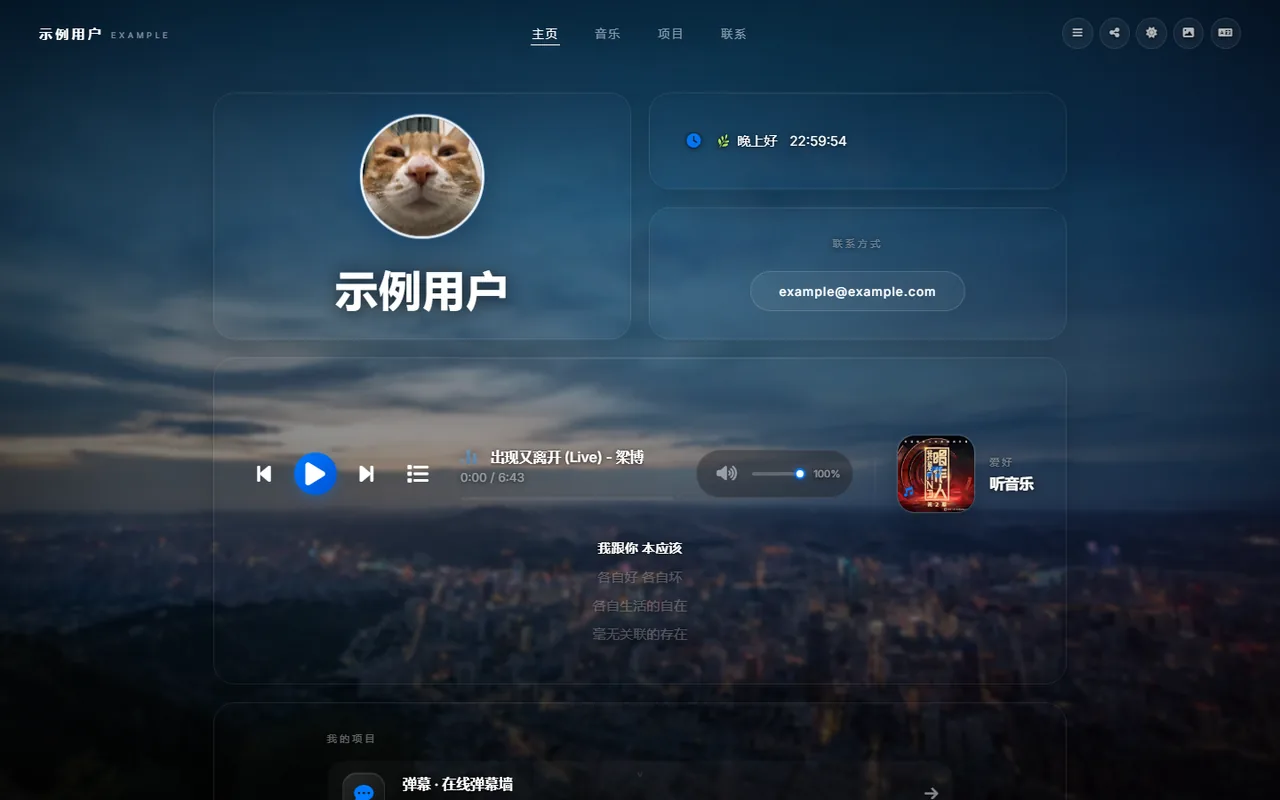
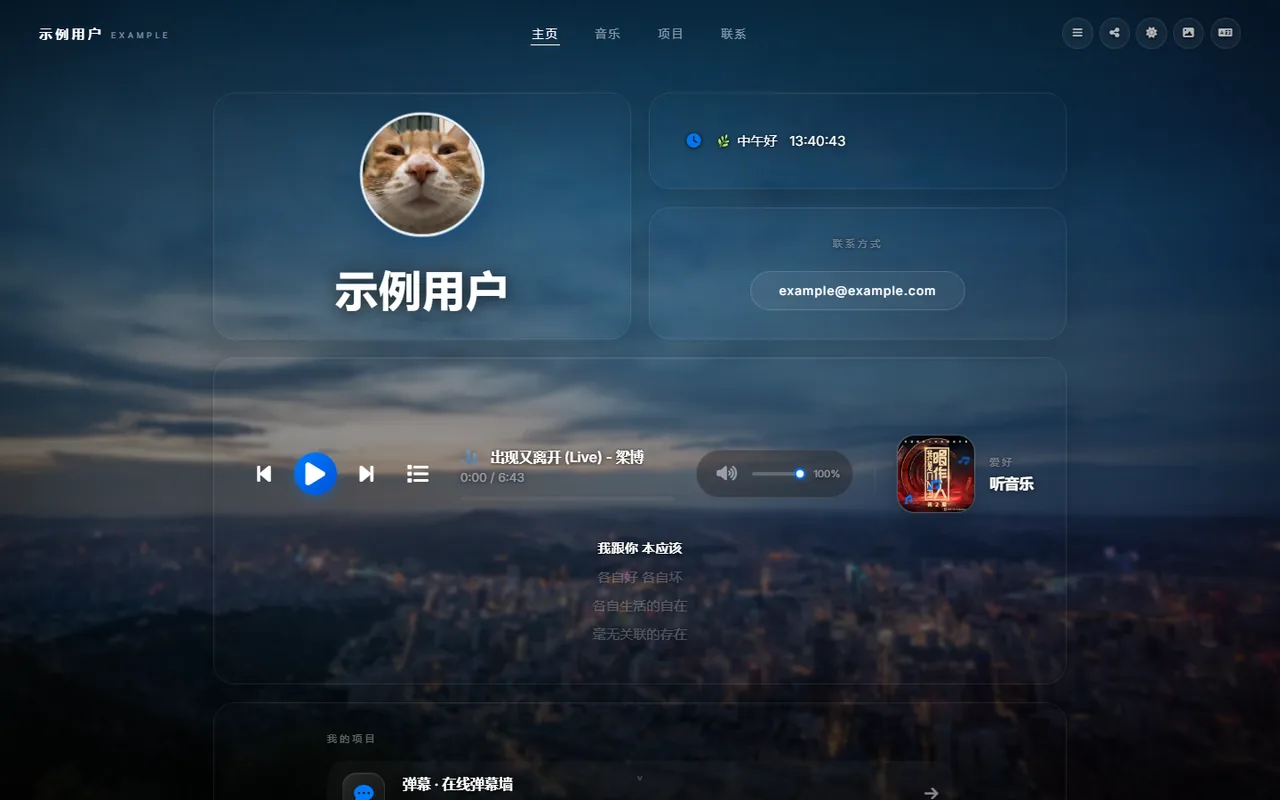
feat: 2026 动效升级 + 歌单更新
- 自定义光标（双元素、悬停放大，仅鼠标设备）
- 主题切换 View Transition 圆形揭示
- 卡片聚焦（悬停一张其余压暗）、名字失焦入场、壁纸视差
- 播放器：点歌即播并收起列表、去掉播放进度记忆
- 歌单替换；README 截图与更新日志同步

diff --git a/script.js b/script.js
@@ -1,4 +1,4 @@
-/*!
+/*!
  * 雨天 (yutian.me) 个人主页交互脚本
  * 版权所有 © 2026 雨天 · 保留所有权利
  * 源码: https://github.com/xsfnb/myhome
@@ -14,7 +14,7 @@ document.addEventListener("DOMContentLoaded", () => {
         playlist: [
             { src: '梁博 - 出现又离开 (Live).mp3', title: '出现又离开 (Live) - 梁博' },
             { src: '莫文蔚 - 盛夏的果实.flac', title: '盛夏的果实 - 莫文蔚' },
-            { src: '孙建平 Sweet Style - 我记得你眼里的依恋.mp3', title: '我记得你眼里的依恋 - 孙建平 Sweet Style' },
+            { src: '于果 - 侧脸.flac', title: '侧脸 - 于果' },
             { src: '赵雷 - 画.flac', title: '画 - 赵雷' }
         ],
         currentTrackIndex: 0,
@@ -27,6 +27,7 @@ document.addEventListener("DOMContentLoaded", () => {
             this.initSpatialEngine();
             this.initTheme();
             this.initWallpaper();
+            this.initParallax();
             this.initLanguage();
             this.initSharing();
             this.initScrollIndicator();
@@ -158,6 +159,26 @@ document.addEventListener("DOMContentLoaded", () => {
             update();
         },
 
+        // 壁纸轻微视差：滚动时背景比内容慢半拍，制造纵深感
+        initParallax() {
+            const wp = document.getElementById('wallpaper');
+            if (!wp) return;
+            if (window.matchMedia('(hover: none)').matches) return;
+            if (window.matchMedia('(prefers-reduced-motion: reduce)').matches) return;
+
+            let raf = 0;
+            const update = () => {
+                raf = 0;
+                // 上限 26px，配合 CSS 里的 scale 余量，不会露出黑边
+                const shift = Math.min(window.scrollY * 0.06, 26);
+                wp.style.setProperty('--wp-shift', `${shift.toFixed(2)}px`);
+            };
+            window.addEventListener('scroll', () => {
+                if (!raf) raf = requestAnimationFrame(update);
+            }, { passive: true });
+            update();
+        },
+
         // ========== 空间交互引擎 ==========
         initSpatialEngine() {
             const isTouch = window.matchMedia('(pointer: coarse)').matches;
@@ -219,17 +240,50 @@ document.addEventListener("DOMContentLoaded", () => {
             });
         },
 
+        // 自定义光标：小圆点跟手 + 外圈延迟跟随，悬停可交互元素时放大
+        // （2026 获奖站点常见的「双元素光标」，只在有精确指针的设备启用）
         initCursorGlow() {
-            const glow = document.createElement('div');
-            glow.className = 'cursor-glow';
-            document.body.appendChild(glow);
-            let tx = 0, ty = 0, cx = 0, cy = 0;
-            document.addEventListener('mousemove', (e) => { tx = e.clientX; ty = e.clientY; }, { passive: true });
+            // 只有「有鼠标」的设备才启用（触屏设备保持系统光标）
+            if (!window.matchMedia('(hover: hover) and (pointer: fine)').matches) return;
+            if (window.matchMedia('(prefers-reduced-motion: reduce)').matches) return;
+
+            const dot = document.createElement('div');
+            const ring = document.createElement('div');
+            dot.className = 'cursor-dot';
+            ring.className = 'cursor-ring';
+            document.body.append(dot, ring);
+
+            // 先停在屏幕外，等第一次真实移动再显示，
+            // 否则刷新瞬间会在视口正中出现一个孤零零的光标圈。
+            let mx = -100, my = -100;
+            let rx = mx, ry = my;
+            let armed = false;
+
+            document.addEventListener('mousemove', (e) => {
+                mx = e.clientX;
+                my = e.clientY;
+                if (!armed) {
+                    armed = true;
+                    rx = mx;
+                    ry = my;
+                    document.documentElement.classList.add('has-cursor');
+                }
+            }, { passive: true });
+
+            const INTERACTIVE = 'a, button, .playlist-item, .project-link, .hobby-icon-container, input, .control-btn';
+            document.addEventListener('mouseover', (e) => {
+                if (e.target.closest && e.target.closest(INTERACTIVE)) ring.classList.add('is-active');
+            }, { passive: true });
+            document.addEventListener('mouseout', (e) => {
+                if (e.target.closest && e.target.closest(INTERACTIVE)) ring.classList.remove('is-active');
+            }, { passive: true });
+
             const animate = () => {
-                cx += (tx - cx) * 0.08;
-                cy += (ty - cy) * 0.08;
-                // transform 走合成层，避免 left/top 触发每帧布局重排
-                glow.style.transform = `translate3d(${cx}px, ${cy}px, 0) translate(-50%, -50%)`;
+                dot.style.transform = `translate3d(${mx}px, ${my}px, 0) translate(-50%, -50%)`;
+                // 外圈用缓动跟随，形成轻微的「拖尾」手感
+                rx += (mx - rx) * 0.16;
+                ry += (my - ry) * 0.16;
+                ring.style.transform = `translate3d(${rx}px, ${ry}px, 0) translate(-50%, -50%)`;
                 requestAnimationFrame(animate);
             };
             animate();
@@ -418,7 +472,7 @@ document.addEventListener("DOMContentLoaded", () => {
             this.themeToggle = document.getElementById('theme-toggle');
             this.themeToggle.addEventListener('click', () => {
                 const t = (localStorage.getItem('theme') || 'dark') === 'light' ? 'dark' : 'light';
-                this.applyTheme(t);
+                this.applyTheme(t, true);
             });
             const saved = localStorage.getItem('theme');
             const prefersDark = window.matchMedia('(prefers-color-scheme: dark)').matches;
@@ -427,12 +481,31 @@ document.addEventListener("DOMContentLoaded", () => {
             this.applyTheme(isMobile ? 'dark' : (saved || (prefersDark ? 'dark' : 'light')));
         },
 
-        applyTheme(theme) {
-            document.documentElement.setAttribute('data-theme', theme);
-            localStorage.setItem('theme', theme);
-            this.themeToggle.innerHTML = `<i class="fas ${theme === 'light' ? 'fa-moon' : 'fa-sun'}"></i>`;
-            const meta = document.getElementById('theme-color-meta');
-            if (meta) meta.setAttribute('content', theme === 'light' ? '#f2f2f7' : '#000000');
+        applyTheme(theme, animate = false) {
+            const commit = () => {
+                document.documentElement.setAttribute('data-theme', theme);
+                localStorage.setItem('theme', theme);
+                this.themeToggle.innerHTML = `<i class="fas ${theme === 'light' ? 'fa-moon' : 'fa-sun'}"></i>`;
+                const meta = document.getElementById('theme-color-meta');
+                if (meta) meta.setAttribute('content', theme === 'light' ? '#f2f2f7' : '#000000');
+            };
+
+            const reduce = window.matchMedia('(prefers-reduced-motion: reduce)').matches;
+            if (!animate || reduce || typeof document.startViewTransition !== 'function') {
+                commit();
+                return;
+            }
+
+            // View Transition：从按钮位置扩散的圆形揭示，替代整页硬切
+            const rect = this.themeToggle.getBoundingClientRect();
+            const x = rect.left + rect.width / 2;
+            const y = rect.top + rect.height / 2;
+            const radius = Math.hypot(Math.max(x, innerWidth - x), Math.max(y, innerHeight - y));
+            const root = document.documentElement;
+            root.style.setProperty('--vt-x', `${x}px`);
+            root.style.setProperty('--vt-y', `${y}px`);
+            root.style.setProperty('--vt-r', `${radius}px`);
+            document.startViewTransition(commit);
         },
 
         // ========== 静态壁纸（横/竖屏各两张，仅暗色模式显示） ==========

diff --git a/style.css b/style.css
@@ -1,4 +1,4 @@
-/*!
+/*!
  * 雨天 (yutian.me) 个人主页样式 - Liquid Glass Design System
  * 版权所有 © 2026 雨天 · 保留所有权利
  * 源码: https://github.com/xsfnb/myhome
@@ -2099,4 +2099,137 @@ body { padding-top: 6.5rem; }
 /* 手机上内容本来就明显可滚，去掉这颗小箭头更干净 */
 @media (max-width: 768px) {
   .scroll-indicator { display: none; }
+}
+
+/* ============================================================
+   2026 动效升级：参考近一年 Awwwards 获奖站点与 2026 动画趋势
+   1) 双元素自定义光标   2) 主题切换 View Transition 圆形揭示
+   3) 卡片聚焦（悬停一张，其余压暗）  4) 名字模糊入场
+   5) 壁纸视差   6) 微交互收尾
+   全部尊重 prefers-reduced-motion。
+   ============================================================ */
+
+/* ---------- 1. 自定义光标 ---------- */
+html.has-cursor,
+html.has-cursor * {
+  cursor: none !important;
+}
+
+.cursor-dot,
+.cursor-ring {
+  position: fixed;
+  top: 0;
+  left: 0;
+  border-radius: 50%;
+  pointer-events: none;
+  will-change: transform;
+  z-index: 10000;
+}
+
+.cursor-dot {
+  width: 6px;
+  height: 6px;
+  background: #fff;
+  mix-blend-mode: difference;
+  transition: opacity 0.25s ease;
+}
+
+.cursor-ring {
+  width: 34px;
+  height: 34px;
+  border: 1px solid rgba(255, 255, 255, 0.55);
+  transition: width 0.3s var(--spring-smooth),
+              height 0.3s var(--spring-smooth),
+              border-color 0.3s ease,
+              background-color 0.3s ease,
+              opacity 0.25s ease;
+}
+
+/* 悬停可交互元素：外圈放大 + 填充一点玻璃感 */
+.cursor-ring.is-active {
+  width: 62px;
+  height: 62px;
+  border-color: rgba(255, 255, 255, 0.9);
+  background-color: rgba(255, 255, 255, 0.08);
+}
+
+html:not(.has-cursor) .cursor-dot,
+html:not(.has-cursor) .cursor-ring { display: none; }
+
+@media (hover: none), (pointer: coarse) {
+  .cursor-dot, .cursor-ring { display: none !important; }
+  html.has-cursor, html.has-cursor * { cursor: auto !important; }
+}
+
+/* ---------- 2. 主题切换：从按钮扩散的圆形揭示 ---------- */
+::view-transition-old(root) { animation: none; }
+
+::view-transition-new(root) {
+  animation: vt-circle 0.62s var(--spring-smooth) both;
+}
+
+@keyframes vt-circle {
+  from { clip-path: circle(0px at var(--vt-x, 50%) var(--vt-y, 50%)); }
+  to   { clip-path: circle(var(--vt-r, 75vmax) at var(--vt-x, 50%) var(--vt-y, 50%)); }
+}
+
+/* ---------- 3. 卡片聚焦 ---------- */
+@media (hover: hover) and (pointer: fine) {
+  .grid-item {
+    transition: opacity 0.45s var(--spring-smooth),
+                box-shadow 0.3s var(--spring-smooth),
+                border-color 0.15s ease,
+                transform 0.1s ease-out;
+  }
+
+  /* 悬停某张卡时，其余卡片轻微退后 */
+  .bento-grid:has(.grid-item:hover) .grid-item:not(:hover) {
+    opacity: 0.55;
+  }
+}
+
+/* ---------- 4. 名字逐字：模糊 + 位移 ---------- */
+.name .char { filter: blur(14px); }
+
+.name.split.in .char {
+  filter: blur(0);
+  transition: opacity 0.5s ease,
+              transform 0.62s var(--spring-bounce),
+              filter 0.7s ease;
+}
+
+/* ---------- 5. 壁纸视差 ---------- */
+.wallpaper {
+  /* scale 留出余量，视差最多偏移 26px，不会露出黑边 */
+  transform: translate3d(0, var(--wp-shift, 0px), 0) scale(1.06);
+  will-change: transform;
+}
+
+/* ---------- 6. 微交互收尾 ---------- */
+/* 入场：位移收小、加一点失焦，落位更「稳」 */
+@keyframes reveal-in {
+  from { opacity: 0; transform: translateY(30px) scale(0.985); filter: blur(7px); }
+  to   { opacity: 1; transform: translateY(0) scale(1); filter: blur(0); }
+}
+
+/* 播放列表项：悬停时左侧强调条轻轻拉长 */
+.playlist-item::before {
+  transition: transform 0.28s var(--spring-smooth);
+}
+
+/* 项目链接：箭头在悬停时前移，文字略微提亮 */
+.project-link .project-arrow {
+  transition: transform 0.35s var(--spring-smooth), opacity 0.3s ease;
+}
+
+.project-link:hover .project-arrow {
+  transform: translateX(5px);
+  opacity: 1;
+}
+
+@media (prefers-reduced-motion: reduce) {
+  .cursor-ring { transition: none; }
+  .grid-item { transition: none; }
+  .wallpaper { transform: scale(1.02); }
+  ::view-transition-new(root) { animation: none; }
 }

diff --git a/index.html b/index.html
@@ -85,7 +85,7 @@
     </style>
 
     <!-- 带版本号，避免浏览器/CDN 继续用旧样式（改版后不刷新就会错位） -->
-    <link rel="stylesheet" href="style.css?v=20261030g">
+    <link rel="stylesheet" href="style.css?v=20261115c">
     <meta name="msvalidate.01" content="71D36B20BE80AD56889BB11DEECF99B5" />
 </head>
 <body>
@@ -308,6 +308,6 @@
 
     <div id="toast" class="toast-notification" role="status" aria-live="polite"></div>
     
-    <script src="script.js?v=20261030g"></script>
+    <script src="script.js?v=20261115c"></script>
 </body>
 </html>

diff --git a/README.md b/README.md
@@ -140,6 +140,12 @@ playlist: [
 
 ## 📝 更新日志
 
+**2026-11**
+
+- 动效升级：双元素自定义光标、主题切换 View Transition 圆形揭示、卡片聚焦、名字失焦入场、壁纸视差
+- 播放器：点歌即播并收起列表；去掉播放进度记忆（只保留曲目与音量）
+- 歌单更新；截图刷新
+
 **2026-10（v2）**
 
 - 代码改为 MIT 许可（内容素材仍为作者所有）
